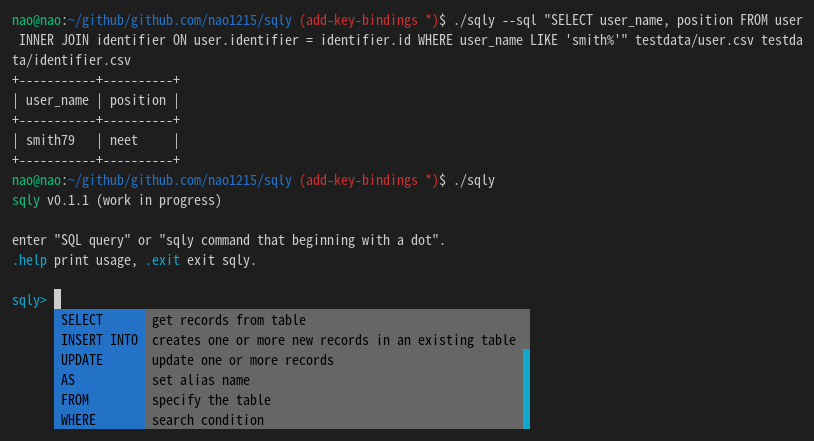
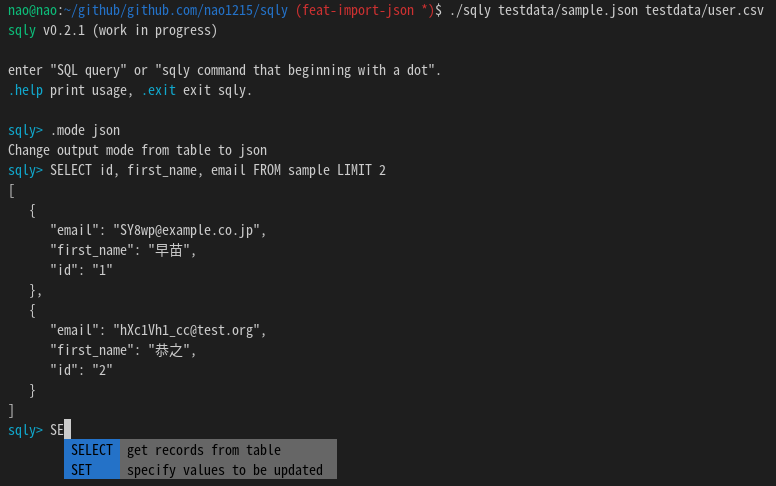
Explained that conversion between csv and json is possible

Changed region(s): [[0.0, 0.0, 0.9897, 0.619], [0.0, 0.6485, 0.6495, 1.0]]

diff --git a/README.md b/README.md
@@ -3,14 +3,12 @@
 [![reviewdog](https://github.com/nao1215/sqly/actions/workflows/reviewdog.yml/badge.svg)](https://github.com/nao1215/sqly/actions/workflows/reviewdog.yml)
 [![Go Report Card](https://goreportcard.com/badge/github.com/nao1215/sqly)](https://goreportcard.com/report/github.com/nao1215/sqly)
 ![GitHub](https://img.shields.io/github/license/nao1215/sqly)  
-# sqly - execute SQL against CSV / JSON easily 
+# sqly - execute SQL against CSV / JSON with shell.
 ![demo](./doc/demo.gif)  
 
 **sqly** command imports CSV / JSON file(s) into an in-memory DB and executes SQL against the CSV / JSON. sqly uses [SQLite3](https://www.sqlite.org/index.html) as its DB. So, sql syntax is same as SQLite3.  
 
 The sqly command has sqly-shell. You can interactively execute SQL with sql completion and command history. Of course, you can also execute SQL without running the sqly-shell.
-
-![demo](./doc/shell-demo.png)  
 
 # How to install
 ### Use "go install"
@@ -38,7 +36,7 @@ $ sqly --sql "SELECT user_name, position FROM user INNER JOIN identifier ON user
 ```
 
 ## Change output format
-sqly command output sql results in ASCII table format (in faorto), CSV format (--csv option), and JSON format (--json option).
+sqly command output sql results in ASCII table format (in faorto), CSV format (--csv option), and JSON format (--json option). This means that conversion between csv and json is supported.
 ```
 $ sqly --sql "SELECT * FROM user LIMIT 2" --csv testdata/user.csv 
 user_name,identifier,first_name,last_name
@@ -60,6 +58,13 @@ $ sqly --sql "SELECT * FROM user LIMIT 2" --json testdata/user.csv
       "user_name": "jenkins46"
    }
 ]
+
+$ sqly --sql "SELECT * FROM user LIMIT 2" --json testdata/user.csv > user.json
+
+$ sqly --sql "SELECT * FROM user LIMIT 2" --csv user.json 
+first_name,identifier,last_name,user_name
+Rachel,1,Booker,booker12
+Mary,2,Jenkins,jenkins46
 ```
 
 ## run sqly shell
@@ -83,6 +88,8 @@ sqly> .help
       .mode: change output mode
     .tables: print tables
 ```
+
+![demo](./doc/shell-demo.png)  
 
 ## Output sql result to file
 ### For linux user 
